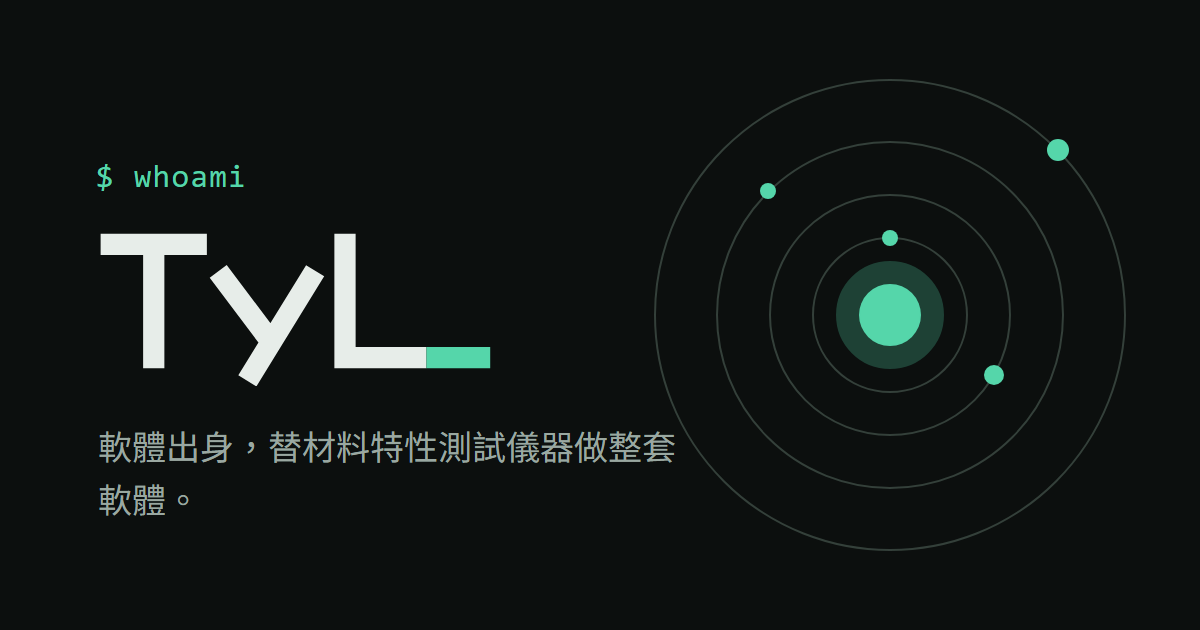
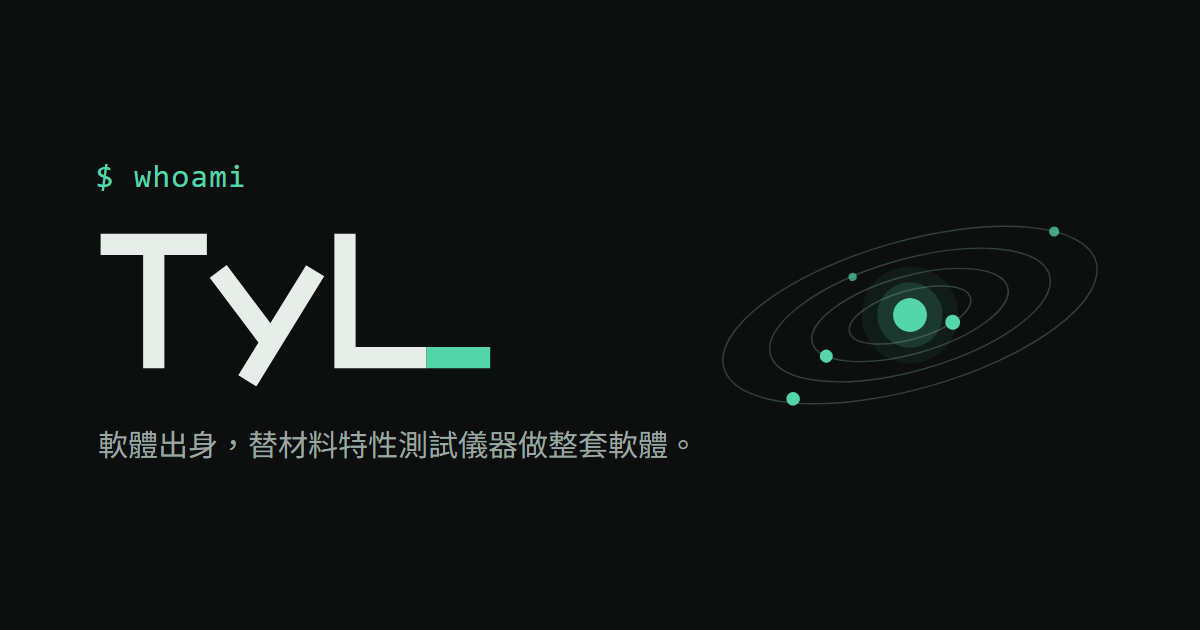
Animate the home hero as a tilted solar system with a pause button
The previous orbit decoration was frozen for visitors whose OS reports
prefers-reduced-motion. Replace it with tilted elliptical orbits driven by
requestAnimationFrame (real period ratios, depth scaling, occlusion by the
sun), on by default, with a persistent pause control. Regenerate the OG image.

diff --git a/assets/js/site.js b/assets/js/site.js
@@ -21,4 +21,72 @@
 		const label = el.querySelector('[data-mail-text]') || (el.children.length ? null : el);
 		if (label) label.textContent = addr;
 	});
+	// 3. 傾斜的太陽系（首頁裝飾）：橢圓軌道、行星依真實公轉週期比例運行、近大遠小，
+	//    繞到太陽後方會被遮住。預設就會動；右下角有暫停按鈕（記在這個瀏覽器），
+	//    離開畫面或切到別的分頁時自動停止，不耗電。
+	const solar = document.querySelector('[data-solar]');
+	if (solar) {
+		const NS = 'http://www.w3.org/2000/svg';
+		const back = solar.querySelector('.solar-back');
+		const front = solar.querySelector('.solar-front');
+		const toggle = solar.querySelector('.solar-toggle');
+		const K = 0.38; // 軌道扁度：短軸 / 長軸
+		// 長軸半徑、星球半徑、公轉週期（秒；以地球 28 秒為基準，其餘依真實比例）、起始角度
+		const planets = [
+			{ rx: 52,  r: 3.4, T: 6.8,  a0: 0.9 },  // 水星（88 天）
+			{ rx: 84,  r: 4.8, T: 17.3, a0: 2.7 },  // 金星（225 天）
+			{ rx: 120, r: 5.4, T: 28,   a0: 4.4 },  // 地球（365 天）
+			{ rx: 160, r: 4.2, T: 52.7, a0: 5.7 },  // 火星（687 天）
+		].map((p) => {
+			const el = document.createElementNS(NS, 'circle');
+			el.setAttribute('class', 'solar-planet');
+			return { ...p, el, inFront: null };
+		});
+
+		let t = 0, last = null, raf = 0, onScreen = true, paused = false;
+
+		const draw = () => {
+			for (const p of planets) {
+				const th = p.a0 + (Math.PI * 2 * t) / p.T;
+				const near = Math.sin(th); // -1 在遠端 … 1 在近端
+				p.el.setAttribute('cx', (p.rx * Math.cos(th)).toFixed(2));
+				p.el.setAttribute('cy', (p.rx * K * near).toFixed(2));
+				p.el.setAttribute('r', (p.r * (1 + 0.28 * near)).toFixed(2));
+				p.el.setAttribute('opacity', (0.62 + 0.38 * (near + 1) / 2).toFixed(2));
+				const isFront = near > 0;
+				if (isFront !== p.inFront) { (isFront ? front : back).appendChild(p.el); p.inFront = isFront; }
+			}
+		};
+
+		const frame = (now) => {
+			raf = 0;
+			if (paused || !onScreen || document.hidden) { last = null; return; }
+			if (last !== null) t += Math.min((now - last) / 1000, 0.1);
+			last = now;
+			draw();
+			raf = requestAnimationFrame(frame);
+		};
+		const kick = () => {
+			if (!raf && !paused && onScreen && !document.hidden) { last = null; raf = requestAnimationFrame(frame); }
+		};
+
+		const setPaused = (v, save) => {
+			paused = v;
+			toggle.setAttribute('aria-pressed', v ? 'true' : 'false');
+			toggle.setAttribute('aria-label', v ? '播放軌道動畫' : '暫停軌道動畫');
+			if (save) { try { localStorage.setItem('solar-paused', v ? '1' : '0'); } catch (e) { /* 無痕模式等 */ } }
+			if (!v) kick();
+		};
+
+		let saved = null;
+		try { saved = localStorage.getItem('solar-paused'); } catch (e) { /* ignore */ }
+		toggle.addEventListener('click', () => setPaused(!paused, true));
+		setPaused(saved === '1', false);
+		draw();
+		if ('IntersectionObserver' in window) {
+			new IntersectionObserver((es) => { onScreen = es[0].isIntersecting; kick(); }).observe(solar);
+		}
+		document.addEventListener('visibilitychange', kick);
+		kick();
+	}
 })();

diff --git a/assets/css/site.css b/assets/css/site.css
@@ -171,27 +171,26 @@ main { display: block; flex: 1 0 auto; }
 }
 .icon-link:hover { color: var(--accent); border-color: var(--accent); }
 
-/* 軌道動畫（裝飾用；致敬舊版的太陽系） */
-.orbits { position: relative; width: min(100%, 360px); aspect-ratio: 1; margin: 0 auto; }
-.orbits .sun {
-	position: absolute; inset: 0; margin: auto; width: 13%; aspect-ratio: 1; border-radius: 50%;
-	background: var(--accent); box-shadow: 0 0 40px 6px var(--accent-soft), 0 0 0 8px var(--accent-soft);
-}
-.orbits .ring {
-	position: absolute; inset: 0; margin: auto; aspect-ratio: 1; border-radius: 50%;
-	border: 1px solid var(--border-strong); animation: spin var(--t) linear infinite;
-}
-.orbits .ring i {
-	position: absolute; top: -4px; left: 50%; width: 8px; height: 8px; margin-left: -4px;
-	border-radius: 50%; background: var(--accent);
-}
-.orbits .r1 { width: 32%; --t: 18s; }
-.orbits .r2 { width: 50%; --t: 31s; }
-.orbits .r3 { width: 72%; --t: 52s; }
-.orbits .r4 { width: 98%; --t: 84s; }
-.orbits .r1 i, .orbits .r3 i { width: 6px; height: 6px; top: -3px; margin-left: -3px; opacity: .7; }
+/* 傾斜的太陽系（裝飾用；致敬舊版）。行星位置由 site.js 逐幀計算，這裡只管外觀 */
+.solar { position: relative; width: min(100%, 460px); margin: 0 auto; }
+.solar > svg { display: block; width: 100%; height: auto; overflow: visible; }
+.solar-rings ellipse { fill: none; stroke: var(--border-strong); stroke-width: 1; }
+.solar .core { fill: var(--accent); }
+.solar .halo-1 { fill: var(--accent); opacity: .16; }
+.solar .halo-2 { fill: var(--accent); opacity: .07; }
+.solar-planet { fill: var(--accent); }
 
-@keyframes spin { to { transform: rotate(360deg); } }
+.solar-toggle {
+	position: absolute; right: 0; bottom: -6px; width: 34px; height: 34px;
+	display: grid; place-items: center; padding: 0;
+	border: 1px solid var(--border); border-radius: 50%; background: var(--bg);
+	color: var(--muted); cursor: pointer; transition: color .15s, border-color .15s;
+}
+.solar-toggle:hover { color: var(--accent); border-color: var(--accent); }
+.solar-toggle svg { width: 14px; height: 14px; fill: currentColor; }
+.solar-toggle .i-play { display: none; }
+.solar-toggle[aria-pressed="true"] .i-pause { display: none; }
+.solar-toggle[aria-pressed="true"] .i-play { display: block; }
 
 /* ===== 卡片 ===== */
 .cards { display: grid; gap: 18px; grid-template-columns: repeat(auto-fill, minmax(min(100%, 300px), 1fr)); }
@@ -368,7 +367,6 @@ html.js .reveal.in { opacity: 1; transform: none; }
 
 @media (prefers-reduced-motion: reduce) {
 	html { scroll-behavior: auto; }
-	.orbits .ring { animation: none; }
 	.logo-cursor, .brand:hover .logo-cursor { animation: none; }
 	html.js .reveal { opacity: 1; transform: none; transition: none; }
 	.card, .card-thumb img { transition: none; }

diff --git a/index.html b/index.html
@@ -53,12 +53,28 @@
 				<a class="icon-link" href="./main/contact.html" data-user="tyl161803" data-domain="gmail.com" aria-label="Email"><svg viewBox="0 0 24 24" aria-hidden="true"><path d="M3.5 4h17A1.5 1.5 0 0 1 22 5.5v13a1.5 1.5 0 0 1-1.5 1.5h-17A1.5 1.5 0 0 1 2 18.5v-13A1.5 1.5 0 0 1 3.5 4zm.7 2.2L12 12.3l7.8-6.1H4.2zM20 8.2l-7.4 5.7a1 1 0 0 1-1.2 0L4 8.2V18h16V8.2z"/></svg></a>
 			</div>
 		</div>
-		<div class="orbits" aria-hidden="true">
-	<span class="sun"></span>
-	<span class="ring r1"><i></i></span>
-	<span class="ring r2"><i></i></span>
-	<span class="ring r3"><i></i></span>
-	<span class="ring r4"><i></i></span>
+		<div class="solar" data-solar>
+	<svg viewBox="-215 -150 430 300" aria-hidden="true" focusable="false">
+		<g transform="rotate(-16)">
+			<g class="solar-rings">
+				<ellipse rx="52" ry="20"/>
+				<ellipse rx="84" ry="32"/>
+				<ellipse rx="120" ry="46"/>
+				<ellipse rx="160" ry="61"/>
+			</g>
+			<g class="solar-back"></g>
+			<g class="solar-sun">
+				<circle r="40" class="halo-2"/>
+				<circle r="27" class="halo-1"/>
+				<circle r="14" class="core"/>
+			</g>
+			<g class="solar-front"></g>
+		</g>
+	</svg>
+	<button type="button" class="solar-toggle" aria-pressed="false" aria-label="暫停軌道動畫" title="暫停／播放">
+		<svg viewBox="0 0 24 24" class="i-pause" aria-hidden="true"><path d="M7 5h3.5v14H7zM13.5 5H17v14h-3.5z"/></svg>
+		<svg viewBox="0 0 24 24" class="i-play" aria-hidden="true"><path d="M8 5.5v13l11-6.5z"/></svg>
+	</button>
 </div>
 	</section>
 </div>

diff --git a/src/partials/orbits.html b/src/partials/orbits.html
@@ -1,7 +1,23 @@
-<div class="orbits" aria-hidden="true">
-	<span class="sun"></span>
-	<span class="ring r1"><i></i></span>
-	<span class="ring r2"><i></i></span>
-	<span class="ring r3"><i></i></span>
-	<span class="ring r4"><i></i></span>
+<div class="solar" data-solar>
+	<svg viewBox="-215 -150 430 300" aria-hidden="true" focusable="false">
+		<g transform="rotate(-16)">
+			<g class="solar-rings">
+				<ellipse rx="52" ry="20"/>
+				<ellipse rx="84" ry="32"/>
+				<ellipse rx="120" ry="46"/>
+				<ellipse rx="160" ry="61"/>
+			</g>
+			<g class="solar-back"></g>
+			<g class="solar-sun">
+				<circle r="40" class="halo-2"/>
+				<circle r="27" class="halo-1"/>
+				<circle r="14" class="core"/>
+			</g>
+			<g class="solar-front"></g>
+		</g>
+	</svg>
+	<button type="button" class="solar-toggle" aria-pressed="false" aria-label="暫停軌道動畫" title="暫停／播放">
+		<svg viewBox="0 0 24 24" class="i-pause" aria-hidden="true"><path d="M7 5h3.5v14H7zM13.5 5H17v14h-3.5z"/></svg>
+		<svg viewBox="0 0 24 24" class="i-play" aria-hidden="true"><path d="M8 5.5v13l11-6.5z"/></svg>
+	</button>
 </div>

diff --git a/DEVDOC.md b/DEVDOC.md
@@ -62,7 +62,8 @@ exam/                      線上考卷系統（自成一格）
 
 ### 設計決策
 
-- 深色為主、單一強調色（`#55d6aa`）、系統字型、克制的動態；支援 `prefers-color-scheme` 與 `prefers-reduced-motion`。
+- 深色為主、單一強調色（`#55d6aa`）、系統字型、克制的動態；支援 `prefers-color-scheme` 與 `prefers-reduced-motion`（捲動進場動畫在該設定下停用）。
+- 首頁太陽系（`src/partials/orbits.html` + `assets/js/site.js` 第 3 區）是 SVG 傾斜橢圓＋requestAnimationFrame：行星週期 6.8／17.3／28／52.7 秒，繞到近端變大變亮、繞到太陽後方被遮擋。**刻意不理會 `prefers-reduced-motion`**（使用者的 Windows 關閉了動畫，若遵守就永遠是靜止的），改以右下角暫停鈕滿足 WCAG 2.2.2（選擇存在 localStorage `solar-paused`）；離開畫面或分頁隱藏時自動停止。想改成遵守系統設定：在 `site.js` 初始化處，系統為 reduce 時預設 `setPaused(true, false)`。
 - Email 不直接寫在 HTML，由 `site.js` 載入後組出來（擋一般爬蟲）。
 - 圖片一律 WebP，並標上寬高避免版面跳動；縮圖用 `loading="lazy"`。
 
